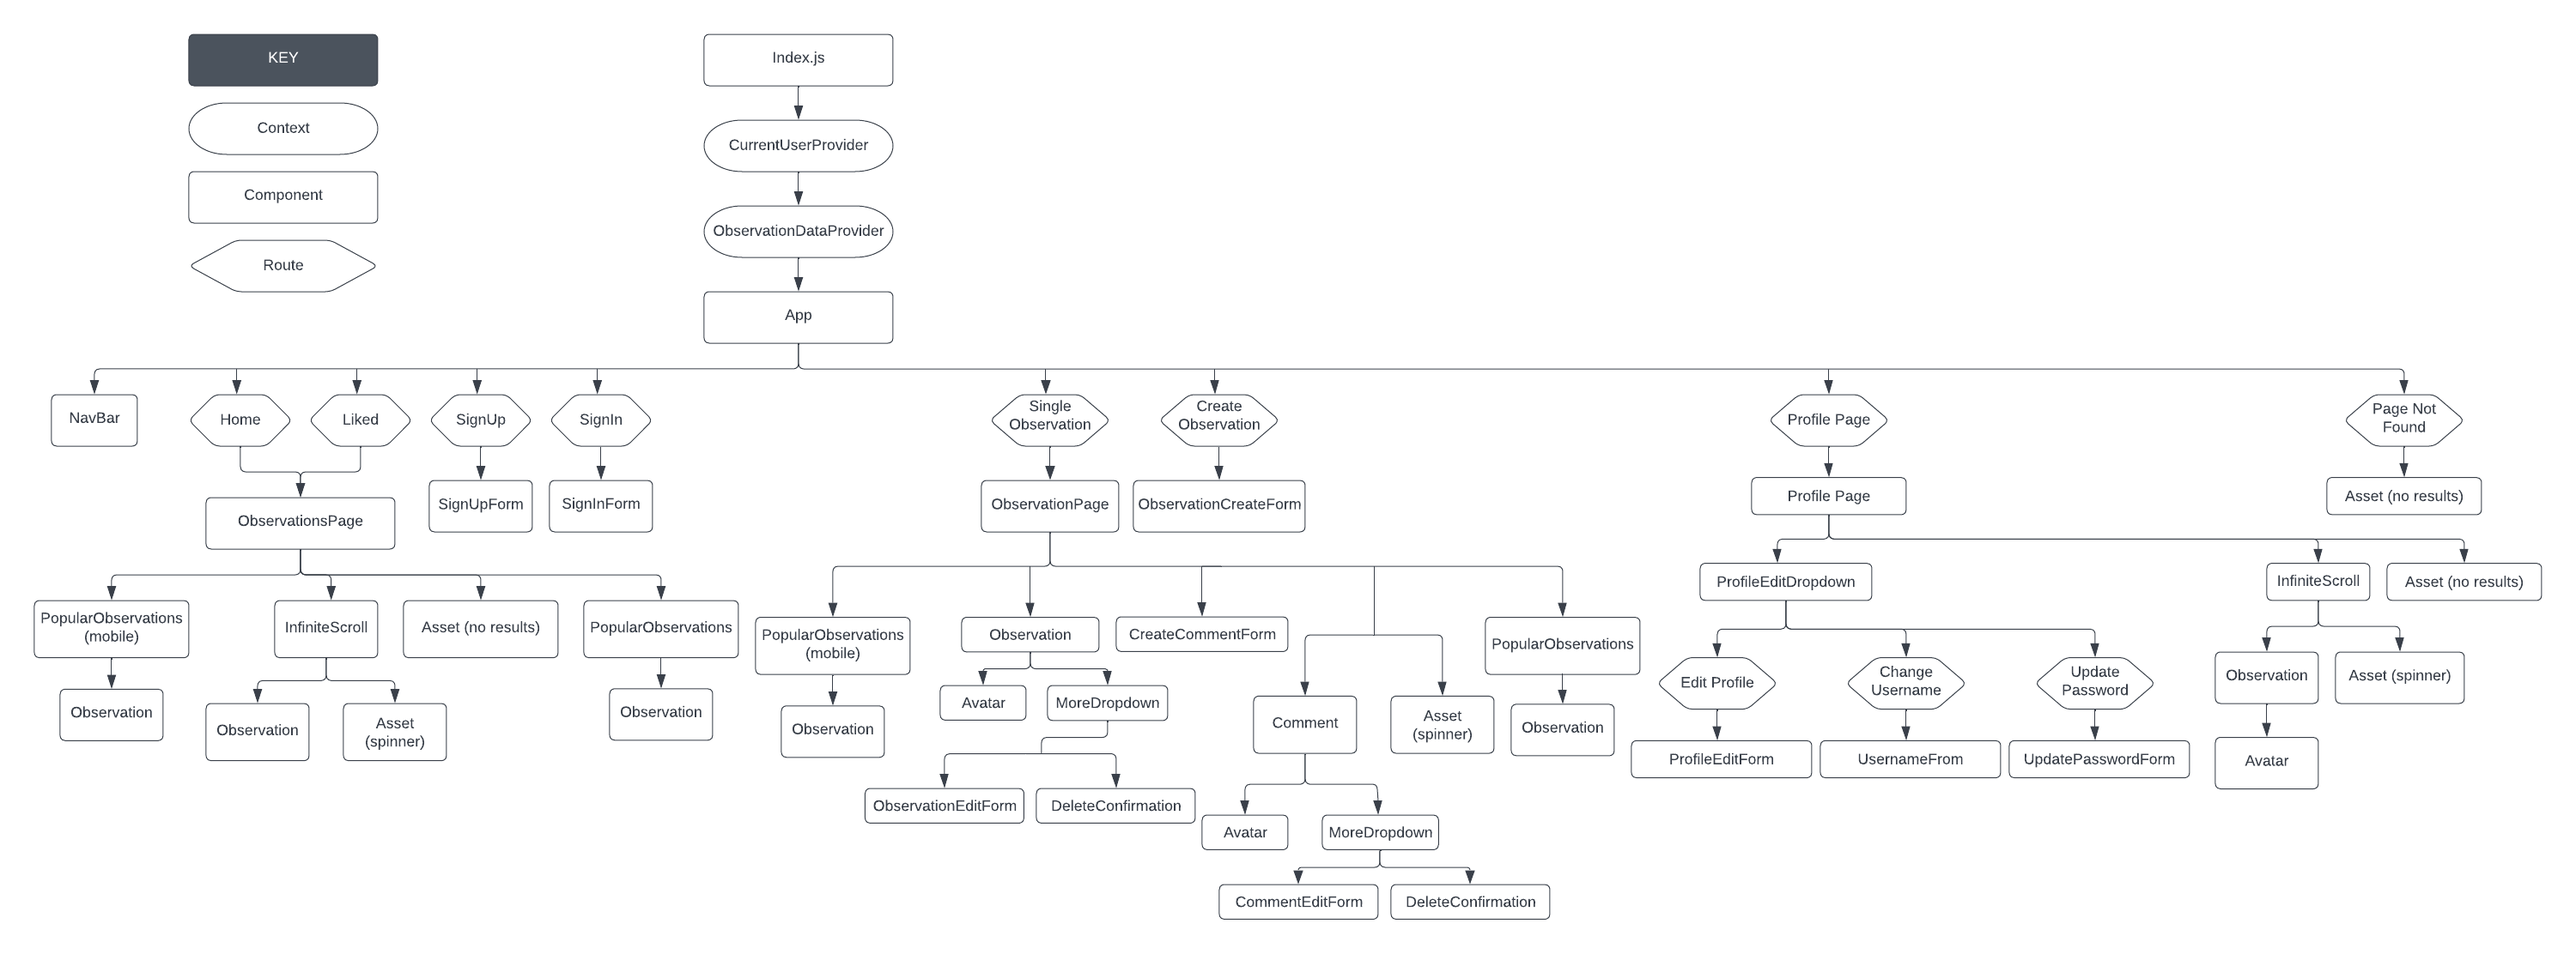
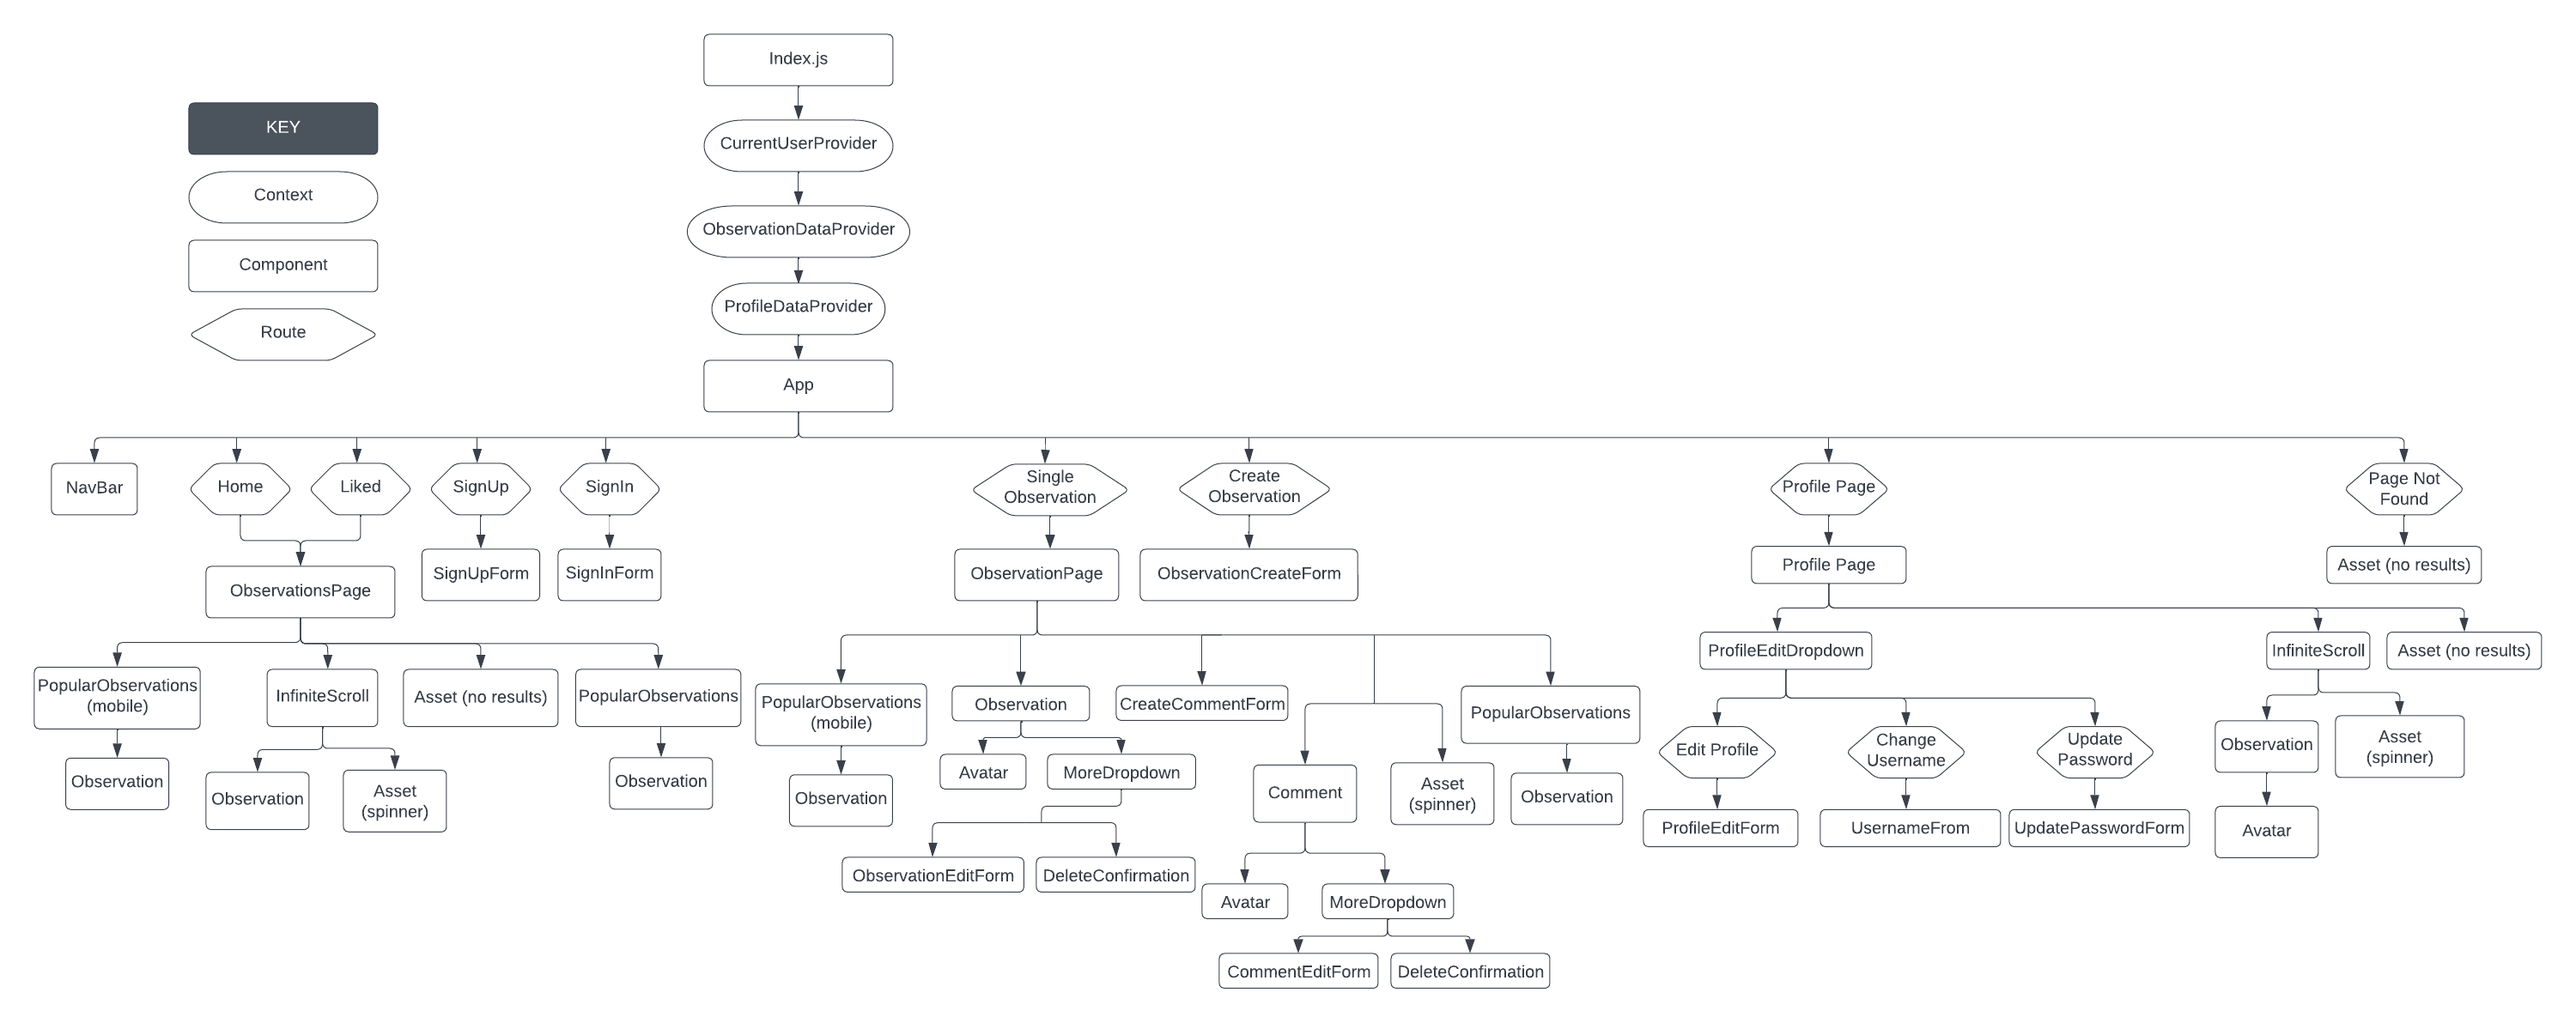
Updated page_component_breakdown and PopularObservations on sm devices.

diff --git a/src/styles/PopularObservation.module.css b/src/styles/PopularObservation.module.css
@@ -13,7 +13,7 @@
     background-color: #343a40;
     border: 1px solid #ffc400;
     border-radius: 0.25rem;
-    width: 40%;
-    height: 80%;
+    width: 200px;
+    height: 50px;
     margin: 7px;
 }
